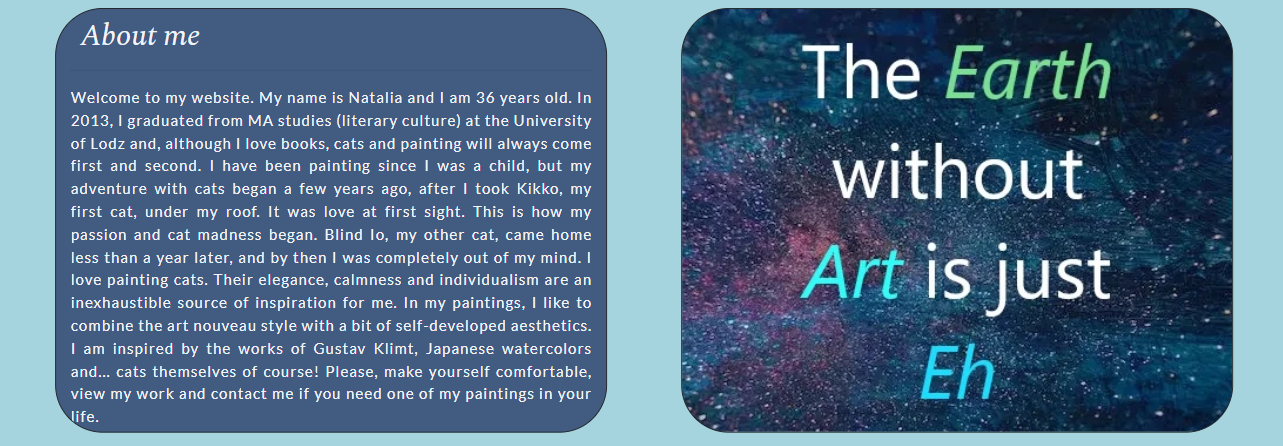
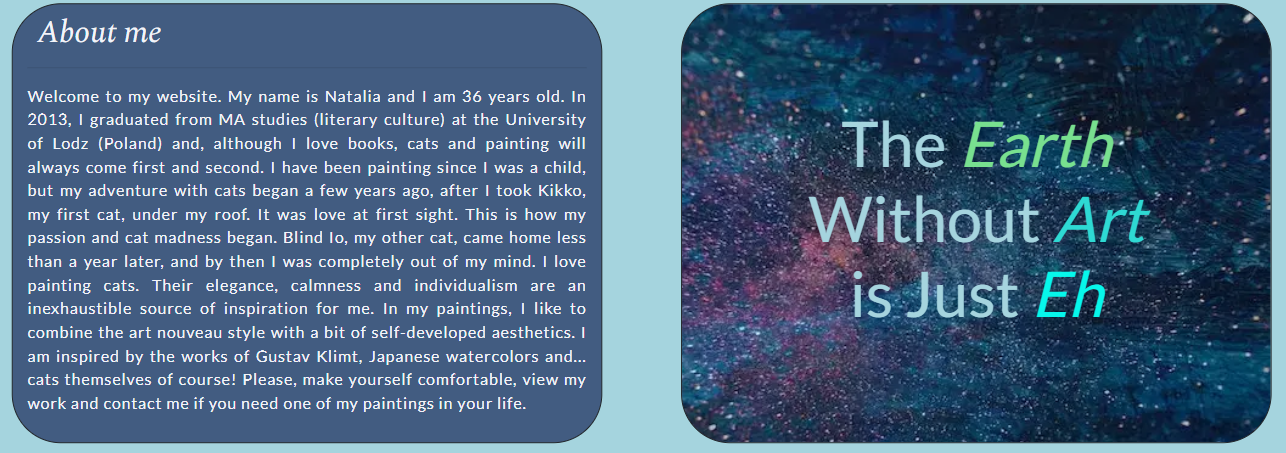
Changed Earth quote image for a separate background and text, added info about scrollbar

diff --git a/index.html b/index.html
@@ -72,7 +72,8 @@
                     <h2 class="header-art">About me</h2>
                     <hr>
                     <p>Welcome to my website. My name is Natalia and I am 36 years old.
-                        In 2013, I graduated from MA studies (literary culture) at the University of Lodz (Poland) and, although
+                        In 2013, I graduated from MA studies (literary culture) at the University of Lodz (Poland) and,
+                        although
                         I
                         love books, cats and painting will always come first and second.
                         I have been painting since I was a child, but my adventure with cats began a few years ago,
@@ -91,6 +92,10 @@
                         in your life.</p>
                 </div>
                 <div class="col-12 col-lg-5 secquote-bg border-lg">
+                    <div class="quote1">
+                        <h1>The <span class="color"><em>Earth</em></span><br> Without <span class="color2"><em>
+                            Art</em></span><br> is Just <span class="color3"> <em>Eh</em></span></h1>
+                    </div>
                 </div>
                 <!--  /About - Quote -->
                 <!-- Quote - Image -->
@@ -145,7 +150,7 @@
             </div>
         </main>
     </div>
-<!-- Footer -->
+    <!-- Footer -->
     <footer class="container-fluid footer">
         <div class="row no-gutters">
             <div class="col-12">
@@ -172,10 +177,10 @@
             </div>
         </div>
     </footer>
-<!-- /Footer -->
-<!-- Font Awesome icon -->
+    <!-- /Footer -->
+    <!-- Font Awesome icon -->
     <script src="https://kit.fontawesome.com/baba64def8.js" crossorigin="anonymous"></script>
-<!-- Bootstrap JS (for hamburger menu) -->
+    <!-- Bootstrap JS (for hamburger menu) -->
     <script src="https://code.jquery.com/jquery-3.5.1.slim.min.js"
         integrity="sha384-DfXdz2htPH0lsSSs5nCTpuj/zy4C+OGpamoFVy38MVBnE+IbbVYUew+OrCXaRkfj" crossorigin="anonymous">
     </script>

diff --git a/assets/css/style.css b/assets/css/style.css
@@ -136,11 +136,39 @@ a:hover {
 
 /* -------------------------------------------------------- Earth Quote */
 
+
 .secquote-bg {
     background: url('../images/quote1.webp') center;
     background-size: cover;
-    height: 50vh;
-    border: 1px solid;  
+    background-color: #425c81;
+    height: 50vh;  
+    display: flex;
+	justify-content: center;
+	align-items: center;
+    text-align: center;
+    border: 1px solid;
+    position: relative;  
+}
+
+.quote1 {
+    color: #a5d4de;
+    position: absolute; 
+}
+
+.quote1 h1 {
+    font-size: 3.5rem;
+}
+
+.color {
+    color: #78e08f;
+}
+ 
+.color2 {
+    color: #2ed9d3;
+}
+
+.color3 {
+    color: #07f7eb;
 }
 
 
@@ -176,7 +204,10 @@ a:hover {
 
 .slide {
     background-color: #425c81;
-    border: 1px solid;
+    border: 1px solid; 
+}
+.carousel-item img {
+    height: 50vh;
 }
 
 
@@ -186,6 +217,8 @@ a:hover {
 .footer {
     background-image: linear-gradient(#a5d4de, #ffff);
     border: 1px groove; 
+    grid-row-start: 2;
+    grid-row-end: 3;
 }
 
 
@@ -210,10 +243,6 @@ a:hover {
 
 
 /* -------------------------------------------------------- Gallery */
-
-.gall-bg {
-    background-color: #a5d4de;
-}
 
 .pic {
     margin: 5px 5px;
@@ -277,7 +306,7 @@ button[type="submit"] {
 
 @media(min-width: 768px) {
     .secquote p {display: table-caption; font-size: 3.5rem;}
-    .carousel-item img {object-fit: contain; height: 50vh; border-radius: 50px;}
+    .carousel-item img {object-fit: contain; border-radius: 50px;}
     .row-main {display: flex; justify-content: space-evenly;}
     .border-lg {border-radius: 50px; margin: 10px 0;}
     .center-form {max-width: 50%;}

diff --git a/README.md b/README.md
@@ -175,6 +175,8 @@ Wireframes were created at the beginning of the design process using [Balsamiq](
 
   ![About](assets/images/readme-img/about.PNG)
 
+* A scrollbar - In the 'About me' section, there is a [scrollbar](assets/images/readme-img/scrollbar.png) on smaller screens. The scrollbar has been tested on Chrome, Mozilla and Safari browsers and looks aesthetically pleasing on each of these browsers. However, it has come to my attention that someone may see the scrollbar like [this](assets/images/readme-img/scrollbar1.PNG). Unfortunately, I haven't been able to find out what's causing it.
+
 ## A carousel & quote section
 * Includes a Herman Melville's art quote with a background image.
 * A carousel gallery with 4 images which change automatically.  
@@ -285,7 +287,7 @@ It was fixed by changing section element to div element.
 # Bugs
 | Bugs       | Solved?   | How? |
 |------------|-----------|------|
-| 1. Footer on the contact page  | Yes | The page did not have enough content, so the footer was displayed in the middle of the page. I found solution on the [CSS Tricks Page](https://css-tricks.com/couple-takes-sticky-footer/). |
+| 1. Footer on the contact page  | Yes | The page did not have enough content, so the footer was displayed in the middle of the page. I found solution on the [CSS Tricks Page](https://css-tricks.com/couple-takes-sticky-footer/) ('There is grid' section) |
 | 2. Carousel images on the desktops were too stretched and didn't look good. | Yes    |   I've asked for help on the [stack overflow](https://stackoverflow.com/) and was advised to add object-fit: contain property to my CSS, which centered images and make them look better. |
 | 3. Images not displaying on my home page | Yes | I've changed absolute file path to the relative path. |
 | 4. On the landscape view, the text on the quote overflows the image. [See here](assets/images/readme-img/bug.PNG) | Yes | I've added position: relative to the parent, and absolute to the child.
